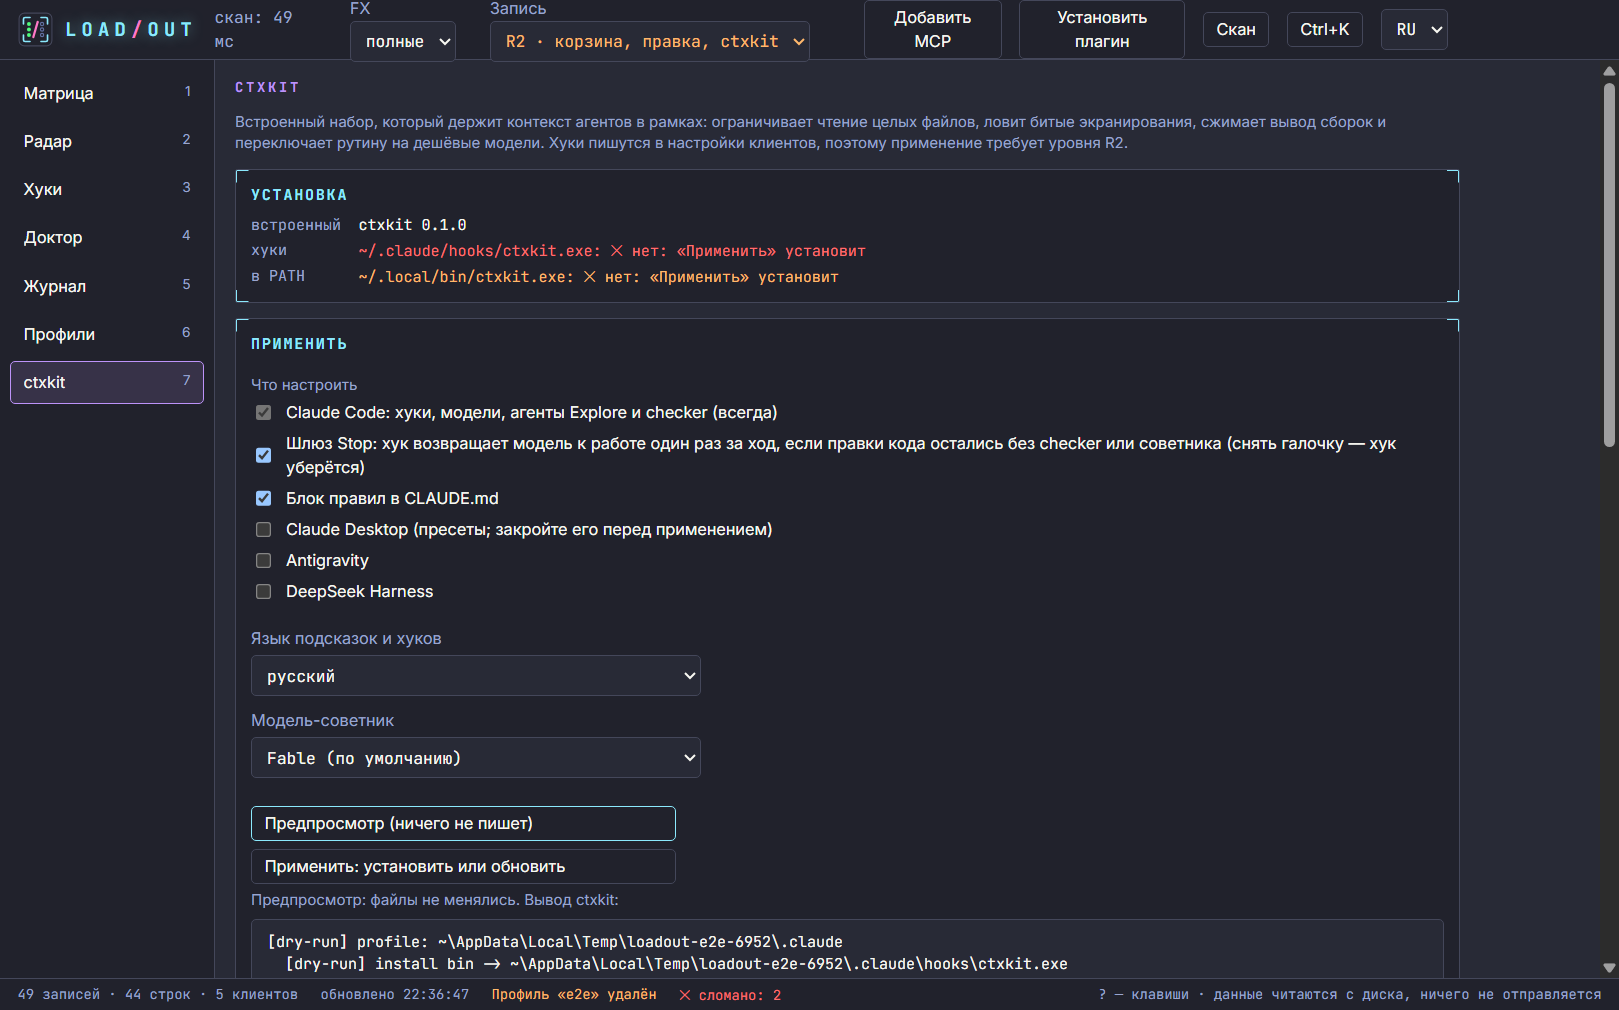
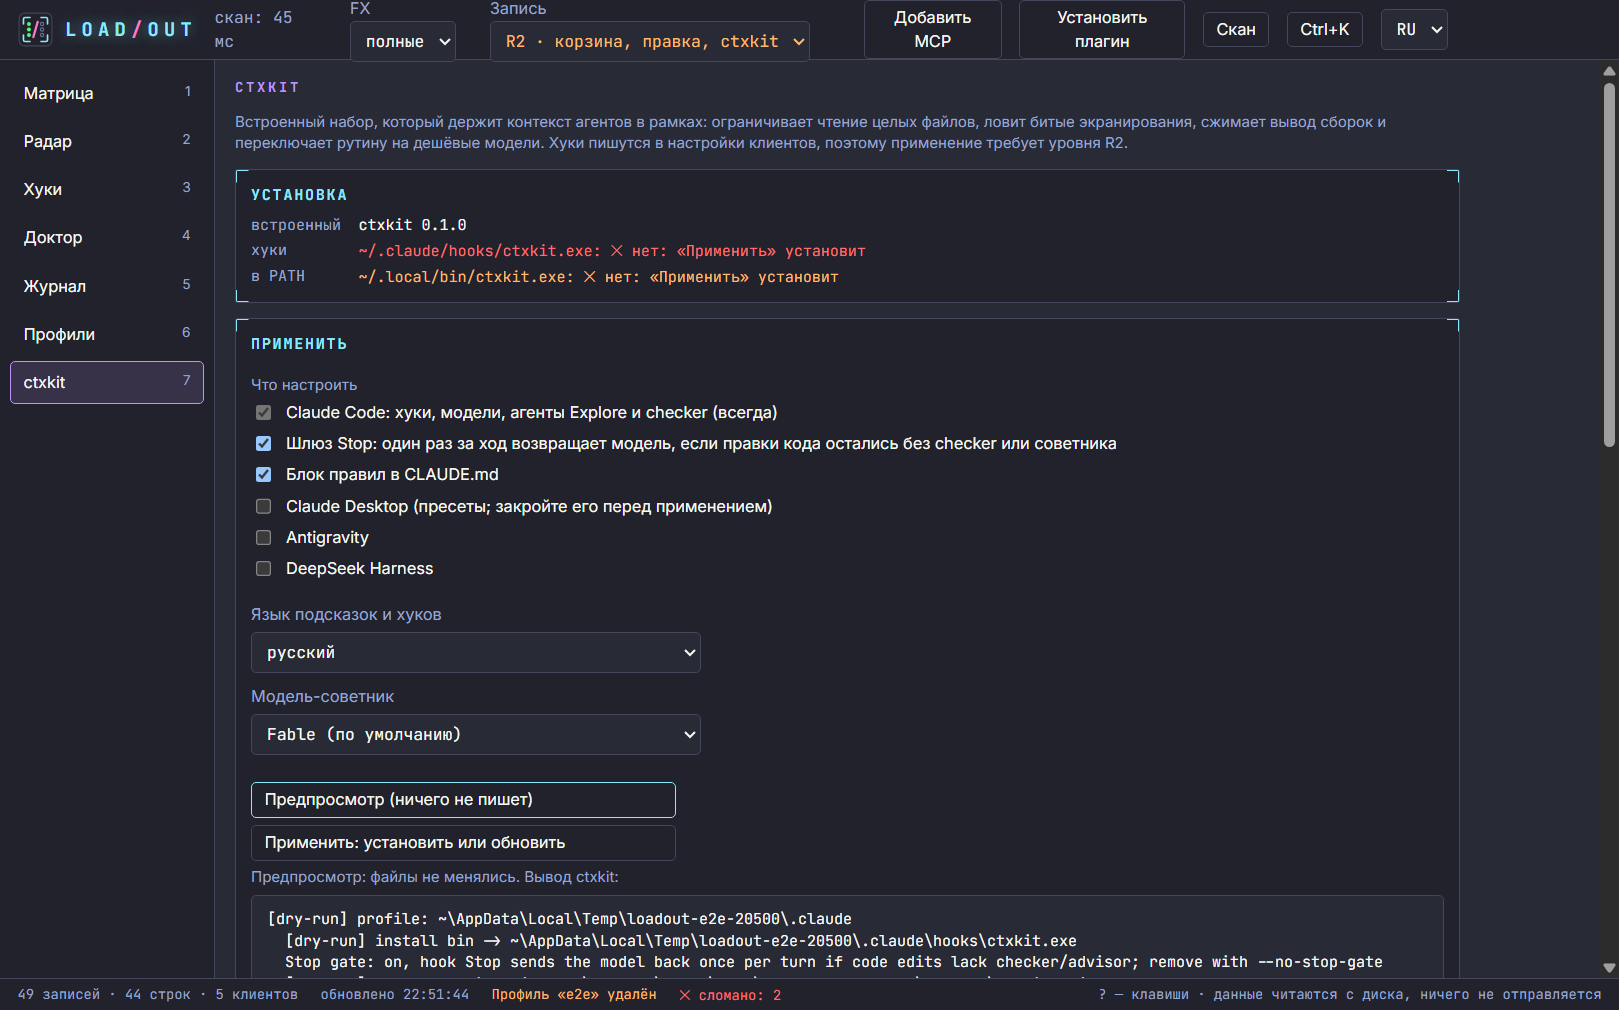
Stop gate: live check on a temporary profile, accepted blind spots in CONCEPT §10.8, shorter checkbox label; TODO: day-by-day comparison and header remarks remain

diff --git a/app/src/renderer/views/Ctxkit.tsx b/app/src/renderer/views/Ctxkit.tsx
@@ -132,7 +132,7 @@ export function Ctxkit({ level, onNotice }: Props) {
           <fieldset className="choices">
             <legend className="mute small">{t('Что настроить', 'What to configure')}</legend>
             <label><input type="checkbox" checked disabled /> {t('Claude Code: хуки, модели, агенты Explore и checker (всегда)', 'Claude Code: hooks, models, Explore and checker agents (always)')}</label>
-            <label><input type="checkbox" checked={!opts.noStopGate} onChange={(e) => change({ noStopGate: !e.target.checked })} /> {t('Шлюз Stop: хук возвращает модель к работе один раз за ход, если правки кода остались без checker или советника (снять галочку — хук уберётся)', 'Stop gate: a hook sends the model back once per turn if code edits were not followed by checker or the advisor (untick to remove the hook)')}</label>
+            <label><input type="checkbox" checked={!opts.noStopGate} onChange={(e) => change({ noStopGate: !e.target.checked })} /> {t('Шлюз Stop: один раз за ход возвращает модель, если правки кода остались без checker или советника', 'Stop gate: once per turn sends the model back if code edits were not followed by checker or the advisor')}</label>
             <label><input type="checkbox" checked={opts.withRules} onChange={(e) => change({ withRules: e.target.checked })} /> {t('Блок правил в CLAUDE.md', 'Rules block in CLAUDE.md')}</label>
             <label><input type="checkbox" checked={opts.desktop} onChange={(e) => change({ desktop: e.target.checked })} /> {t('Claude Desktop (пресеты; закройте его перед применением)', 'Claude Desktop (presets; close it before applying)')}</label>
             <label><input type="checkbox" checked={opts.antigravity} onChange={(e) => change({ antigravity: e.target.checked })} /> Antigravity</label>

diff --git a/docs/CONCEPT.md b/docs/CONCEPT.md
@@ -429,7 +429,7 @@ HUD-эффекты — только то, что дёшево:
 
 **Не сделано.** Удаление ctxkit из клиентов (у ctxkit нет команды отката: вернуть можно из его бэкапов в `~/.claude/backups`, Loadout этого не умеет); переключение языка и модели без повторного применения; «до и после» как отдельная метка начала работы ctxkit (в отчёте её нет); выбор профиля Claude Code (`--profile`, `CLAUDE_CONFIG_DIR`): окно работает с профилем по умолчанию. Версия ctxkit в приложении — та, что собрана из репозитория в момент упаковки: рассинхрон с установленным у пользователя показывает статус «другая версия».
 
-**Шлюз Stop (добавлен позже, `crates/ctxkit/src/gate.rs`).** `ctxkit setup` по умолчанию добавляет хук `Stop`: если за ход правились два и более файла с кодом (или пять и более правок), а после последней правки не вызван ни `checker`, ни advisor, остановку блокируют один раз (повтор пропускает `stop_hook_active`). Хук читает только хвост транскрипта (4 МБ), команд не запускает, при любой ошибке молчит; в `doctor` для него находка `stop_gate`; флаг `ctxkit setup --no-stop-gate` его убирает, `CTXKIT_GATE=0` глушит на сессию. Причина: одних правил в `CLAUDE.md` Sonnet не выполняет (до 14.11 вызовов advisor в отчёте 0). Применён к профилю владельца (бэкапы `settings.json` и `CLAUDE.md` в `~/.claude/backups`). Проверено: тесты крейта, clippy, `guard.test.mjs`, процессные прогоны на синтетическом и на обрезанной копии реального транскрипта (блок), независимый `checker` (24 краевых случая), юнит-тесты и e2e окна; замер ~50 мс на транскрипте 302 МБ вместе с запуском процесса. Что осталось доделать (окно, живая проверка, слепые зоны шлюза) — в `TODO.md` в корне репозитория.
+**Шлюз Stop (добавлен позже, `crates/ctxkit/src/gate.rs`).** `ctxkit setup` по умолчанию добавляет хук `Stop`: если за ход правились два и более файла с кодом (или пять и более правок), а после последней правки не вызван ни `checker`, ни advisor, остановку блокируют один раз (повтор пропускает `stop_hook_active`). Хук читает только хвост транскрипта (4 МБ), команд не запускает, при любой ошибке молчит; в `doctor` для него находка `stop_gate`; флаг `ctxkit setup --no-stop-gate` его убирает, `CTXKIT_GATE=0` глушит на сессию. Причина: одних правил в `CLAUDE.md` Sonnet не выполняет (до 14.11 вызовов advisor в отчёте 0). Применён к профилю владельца (бэкапы `settings.json` и `CLAUDE.md` в `~/.claude/backups`). Проверено: тесты крейта, clippy, `guard.test.mjs`, процессные прогоны на синтетическом и на обрезанной копии реального транскрипта (блок), независимый `checker` (24 краевых случая), юнит-тесты и e2e окна; замер ~50 мс на транскрипте 302 МБ вместе с запуском процесса. Живая проверка (15.11, `claude -p` 2.1.325 с haiku на временном профиле, `ctxkit setup --profile`): правка двух файлов, Stop блокирует один раз, на повторе (`stop_hook_active`) хук молчит и ход завершается. Принятые ограничения (слепые зоны): (1) правки, сделанные субагентами, и правки через Bash не видны: транскрипты субагентов лежат в отдельных файлах `<сессия>/subagents/agent-*.jsonl`, в основном виден только вызов `Agent`; учитывать их значило бы сопоставлять файлы с ходом по времени, это не дёшево и даёт ложные блокировки; (2) если первым остановку блокирует чужой `Stop`-хук, на повторе приходит `stop_hook_active=true` и наш промолчит: платформа не говорит, чей именно блок, а надёжно отличить его можно только состоянием на диске; (3) пути с `/temp/` и `/tmp/` считаются черновиками и не учитываются, поэтому проект во временном каталоге шлюз не сработает (так живую проверку пришлось вести вне `Temp`). Что осталось (сравнение вызовов advisor и `checker` по дням) — в `TODO.md` в корне репозитория.
 
 ### 10.9 Верхняя строка окна и знак
 

diff --git a/docs/CONCEPT.en.md b/docs/CONCEPT.en.md
@@ -429,7 +429,7 @@ Deliberately not fixed (`shortcut:`): rolling back a copy and edits in `~/.claud
 
 **Not done.** Removing ctxkit from clients (ctxkit has no rollback command: it can be restored from its backups in `~/.claude/backups`, Loadout cannot do this); switching the language and model without applying again; "before and after" as a separate marker of the start of ctxkit work (the report has none); choosing a Claude Code profile (`--profile`, `CLAUDE_CONFIG_DIR`): the window works with the default profile. The ctxkit version in the app is the one built from the repository at packaging time: a mismatch with the one installed on the user's machine shows the status "different version".
 
-**The Stop gate (added later, `crates/ctxkit/src/gate.rs`).** `ctxkit setup` adds a `Stop` hook by default: if a turn edited two or more code files (or made five or more edits) and neither `checker` nor the advisor ran after the last edit, the stop is blocked once (the retry passes thanks to `stop_hook_active`). The hook reads only the transcript tail (4 MB), runs no commands and stays silent on any error; `doctor` has a `stop_gate` finding for it; `ctxkit setup --no-stop-gate` removes it and `CTXKIT_GATE=0` mutes it per session. Reason: Sonnet does not follow rules in `CLAUDE.md` alone (the report showed 0 advisor calls before 14 Nov). Applied to the owner's profile (backups of `settings.json` and `CLAUDE.md` in `~/.claude/backups`). Checked: crate tests, clippy, `guard.test.mjs`, process runs on a synthetic transcript and on a truncated copy of a real one (block), an independent `checker` (24 edge cases), the window's unit tests and e2e; about 50 ms on a 302 MB transcript including process start. What remains (the window, a live check, the gate's blind spots) is in `TODO.md` at the repository root.
+**The Stop gate (added later, `crates/ctxkit/src/gate.rs`).** `ctxkit setup` adds a `Stop` hook by default: if a turn edited two or more code files (or made five or more edits) and neither `checker` nor the advisor ran after the last edit, the stop is blocked once (the retry passes thanks to `stop_hook_active`). The hook reads only the transcript tail (4 MB), runs no commands and stays silent on any error; `doctor` has a `stop_gate` finding for it; `ctxkit setup --no-stop-gate` removes it and `CTXKIT_GATE=0` mutes it per session. Reason: Sonnet does not follow rules in `CLAUDE.md` alone (the report showed 0 advisor calls before 14 Nov). Applied to the owner's profile (backups of `settings.json` and `CLAUDE.md` in `~/.claude/backups`). Checked: crate tests, clippy, `guard.test.mjs`, process runs on a synthetic transcript and on a truncated copy of a real one (block), an independent `checker` (24 edge cases), the window's unit tests and e2e; about 50 ms on a 302 MB transcript including process start. Live check (15 Nov, `claude -p` 2.1.325 with haiku on a temporary profile, `ctxkit setup --profile`): two files edited, Stop blocks once, on the retry (`stop_hook_active`) the hook is silent and the turn ends. Accepted limitations (blind spots): (1) edits made by subagents and edits through Bash are not seen: subagent transcripts live in separate files `<session>/subagents/agent-*.jsonl`, the main one shows only the `Agent` call; counting them would mean matching files to a turn by time, which is not cheap and gives false blocks; (2) if a foreign `Stop` hook blocks first, the retry arrives with `stop_hook_active=true` and ours stays silent: the platform does not say whose block it was, and telling them apart reliably needs state on disk; (3) paths containing `/temp/` or `/tmp/` count as scratch, so a project inside a temp directory does not trigger the gate (the live check had to run outside `Temp`). What remains (comparing advisor and `checker` calls by day) is in `TODO.md` at the repository root.
 
 ### 10.9 The window's top row and the mark
 

diff --git a/TODO.md b/TODO.md
@@ -2,9 +2,14 @@
 
 ## Шлюз Stop (ctxkit)
 
-Что сделано и как проверено: `docs/CONCEPT.md`, §10.8.
+Что сделано и как проверено: `docs/CONCEPT.md`, §10.8 (там же принятые ограничения шлюза).
 
-- [ ] Живая проверка блокировки в новой сессии Claude Code на временном профиле. На настоящем профиле блокировку один раз видели случайно (сессия Claude Code этого репозитория, 15.11), но на временном профиле целенаправленно не проверяли; остальное проверено на транскриптах.
-- [ ] Пересмотреть снимки `state/*.png` (после прогона e2e пересоздаются все 38, нужные откатываются как шум; смотрели только `m5-ctxkit-1280`). Явная проверка находки `stop_gate` и снятой галочки уже в e2e.
-- [ ] Слепые зоны шлюза: правки из субагентов и через Bash не видны; если первым остановку блокирует чужой `Stop`-хук, наш на повторе промолчит.
-- [ ] Сравнить вызовы advisor и `checker` по дням через неделю после установки (`ctxkit report`). Базовая линия до шлюза: 14.11 — 3 и 3, 15.11 — 37 и 20 (при 2645 ходах Sonnet за 15.11).
+- [ ] Сравнить вызовы advisor и `checker` по дням (`ctxkit report`) не раньше 22.11.2026 (неделя после установки шлюза 15.11). Базовая линия до шлюза: 14.11 — 3 и 3, 15.11 — 37 и 20 (при 2645 ходах Sonnet за 15.11).
+
+## Интерфейс (замечания по снимкам, 15.11)
+
+Мелочи P2, найденные при просмотре `state/*.png`; все до появления шлюза.
+
+- [ ] Шапка при 1280 пикселей в русском: подписи «FX» и «Запись» прижаты к верхнему краю, «скан: N мс» и кнопки «Добавить MCP» / «Установить плагин» переносятся на две строки (в английском всё в одну). Нужна компактная шапка или сжимаемый список «Запись».
+- [ ] Инспектор при 1280: длинный путь файла рвётся посреди слова (`mcp_config.j` / `son`); нужен перенос по `/` или `overflow-wrap: anywhere` у значения.
+- [ ] Профили при 1280: вложенный список «Записи профиля» на снимке обрезан сверху на полстроки (состояние прокрутки после e2e); проверить, не остаётся ли так у пользователя после открытия.
